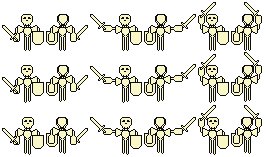
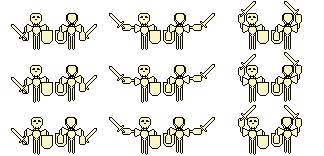
fixed sprites and added to db

diff --git a/entities/enemy.go b/entities/enemy.go
@@ -1,27 +1,43 @@
 package entities
 
 import (
+	anim "game/animations"
+	spritesheet "game/spritesheets"
+	"game/utils/images"
+	v "game/utils/math"
+
 	"github.com/hajimehoshi/ebiten/v2"
 )
 
 type BasicEnemy struct {
 	*Entity
-	Speed float64
-	// Direction v.Vec
+	Speed       float64
+	FacingUp    bool
+	Vel         v.Vec
+	Animations  map[State]*anim.Animation
+	Spritesheet *spritesheet.Spritesheet
 }
 
 func (be *BasicEnemy) Draw(screen *ebiten.Image) {
-	be.Entity.Draw(screen)
+
+	DrawCollider(be.Collider, screen)
+	DrawSprite(screen, be.GetCurrentImage(), *be.Entity.Collider.GetPos(), v.Vec{X: -9, Y: -20})
+
 }
 
 func (be *BasicEnemy) Update(scene Scene) {
+	be.ActiveAnimation().Update()
 
 	sceneObjects := *scene.GetObjects()
 	player := sceneObjects[PlayerObjectId][0]
 	playerPos := player.GetCollider().GetPos()
 
 	// setting enemy direction and movement towards player
-	be.Collider.GetPos().Add(be.Collider.GetPos().DirectionTo(*playerPos).Multiplied(be.Speed))
+
+	direction := be.Collider.GetPos().DirectionTo(*playerPos)
+	be.Vel = direction.Multiplied(be.Speed)
+	be.Collider.GetPos().Add(be.Vel)
+	be.FacingUp = be.Vel.Y < 0
 
 	// setting colliders with static objects on scene
 	for _, o := range sceneObjects[StaticsObjectId] {
@@ -29,7 +45,49 @@ func (be *BasicEnemy) Update(scene Scene) {
 	}
 }
 
+func (be *BasicEnemy) ActiveAnimation() *anim.Animation {
+
+	if be.Vel.IsZero() {
+		return be.Animations[Idle]
+	}
+
+	if be.FacingUp {
+		return be.Animations[Up]
+	} else {
+		return be.Animations[Down]
+	}
+}
+
+func (be *BasicEnemy) GetCurrentImage() *ebiten.Image {
+	frame := be.ActiveAnimation().Frame()
+	rect := be.Spritesheet.Rect(frame)
+
+	return images.SubImage(
+		be.Entity.Sprite.Img,
+		rect,
+	)
+}
+
 func NewBasicEnemy(x, y, speed float64) *BasicEnemy {
-	ent := NewEntity(NewCircle(x, y, 10), nil)
-	return &BasicEnemy{Entity: ent, Speed: speed}
+	enemyImg := images.LoadImage(
+		"assets/bombhead.png",
+		"Error while loading enemy image.",
+		&images.DefaultPlaceholder,
+	)
+
+	animations := map[State]*anim.Animation{
+		Up:   anim.DB[anim.BombheadUpId],
+		Down: anim.DB[anim.BombheadDownId],
+		Idle: anim.DB[anim.BombheadIdleId],
+	}
+
+	sprite := Sprite{Img: enemyImg}
+	ent := NewEntity(NewCircle(x, y, 5), &sprite)
+
+	return &BasicEnemy{
+		Entity:      ent,
+		Speed:       speed,
+		Animations:  animations,
+		Spritesheet: spritesheet.DB[spritesheet.BombheadSpritesheedId],
+	}
 }

diff --git a/animations/db.go b/animations/db.go
@@ -6,10 +6,22 @@ const (
 	PlayerUpId AnimationId = iota
 	PlayerDownId
 	PlayerIdleId
+	BombheadUpId
+	BombheadDownId
+	BombheadIdleId
+	BirdmanUpId
+	BirdmanDownId
+	BirdmanIdleId
 )
 
 var DB = map[AnimationId]*Animation{
-	PlayerUpId:   NewAnimation(3, 5, 2, 10.0),
-	PlayerDownId: NewAnimation(2, 4, 2, 10.0),
-	PlayerIdleId: NewAnimation(0, 0, 0, 0.0),
+	PlayerUpId:     NewAnimation(3, 5, 2, 10.0),
+	PlayerDownId:   NewAnimation(2, 4, 2, 10.0),
+	PlayerIdleId:   NewAnimation(0, 0, 0, 0.0),
+	BombheadUpId:   NewAnimation(3, 5, 2, 10.0),
+	BombheadDownId: NewAnimation(2, 4, 2, 10.0),
+	BombheadIdleId: NewAnimation(0, 0, 0, 0.0),
+	BirdmanUpId:    NewAnimation(0, 2, 2, 10.0),
+	BirdmanDownId:  NewAnimation(1, 3, 2, 10.0),
+	BirdmanIdleId:  NewAnimation(0, 0, 0, 0.0),
 }

diff --git a/spritesheets/db.go b/spritesheets/db.go
@@ -4,8 +4,14 @@ type SpritesheetId uint
 
 const (
 	PlayerSpritesheedId SpritesheetId = iota
+	BombheadSpritesheedId
+	BirdmanSpritesheedId
+	BoneyknightSpritesheedId
 )
 
 var DB = map[SpritesheetId]*Spritesheet{
-	PlayerSpritesheedId: NewSpritesheet(2, 3, 15, 26),
+	PlayerSpritesheedId:      NewSpritesheet(2, 3, 15, 26),
+	BombheadSpritesheedId:    NewSpritesheet(2, 3, 17, 27),
+	BirdmanSpritesheedId:     NewSpritesheet(2, 2, 51, 57),
+	BoneyknightSpritesheedId: NewSpritesheet(6, 3, 54, 52),
 }
